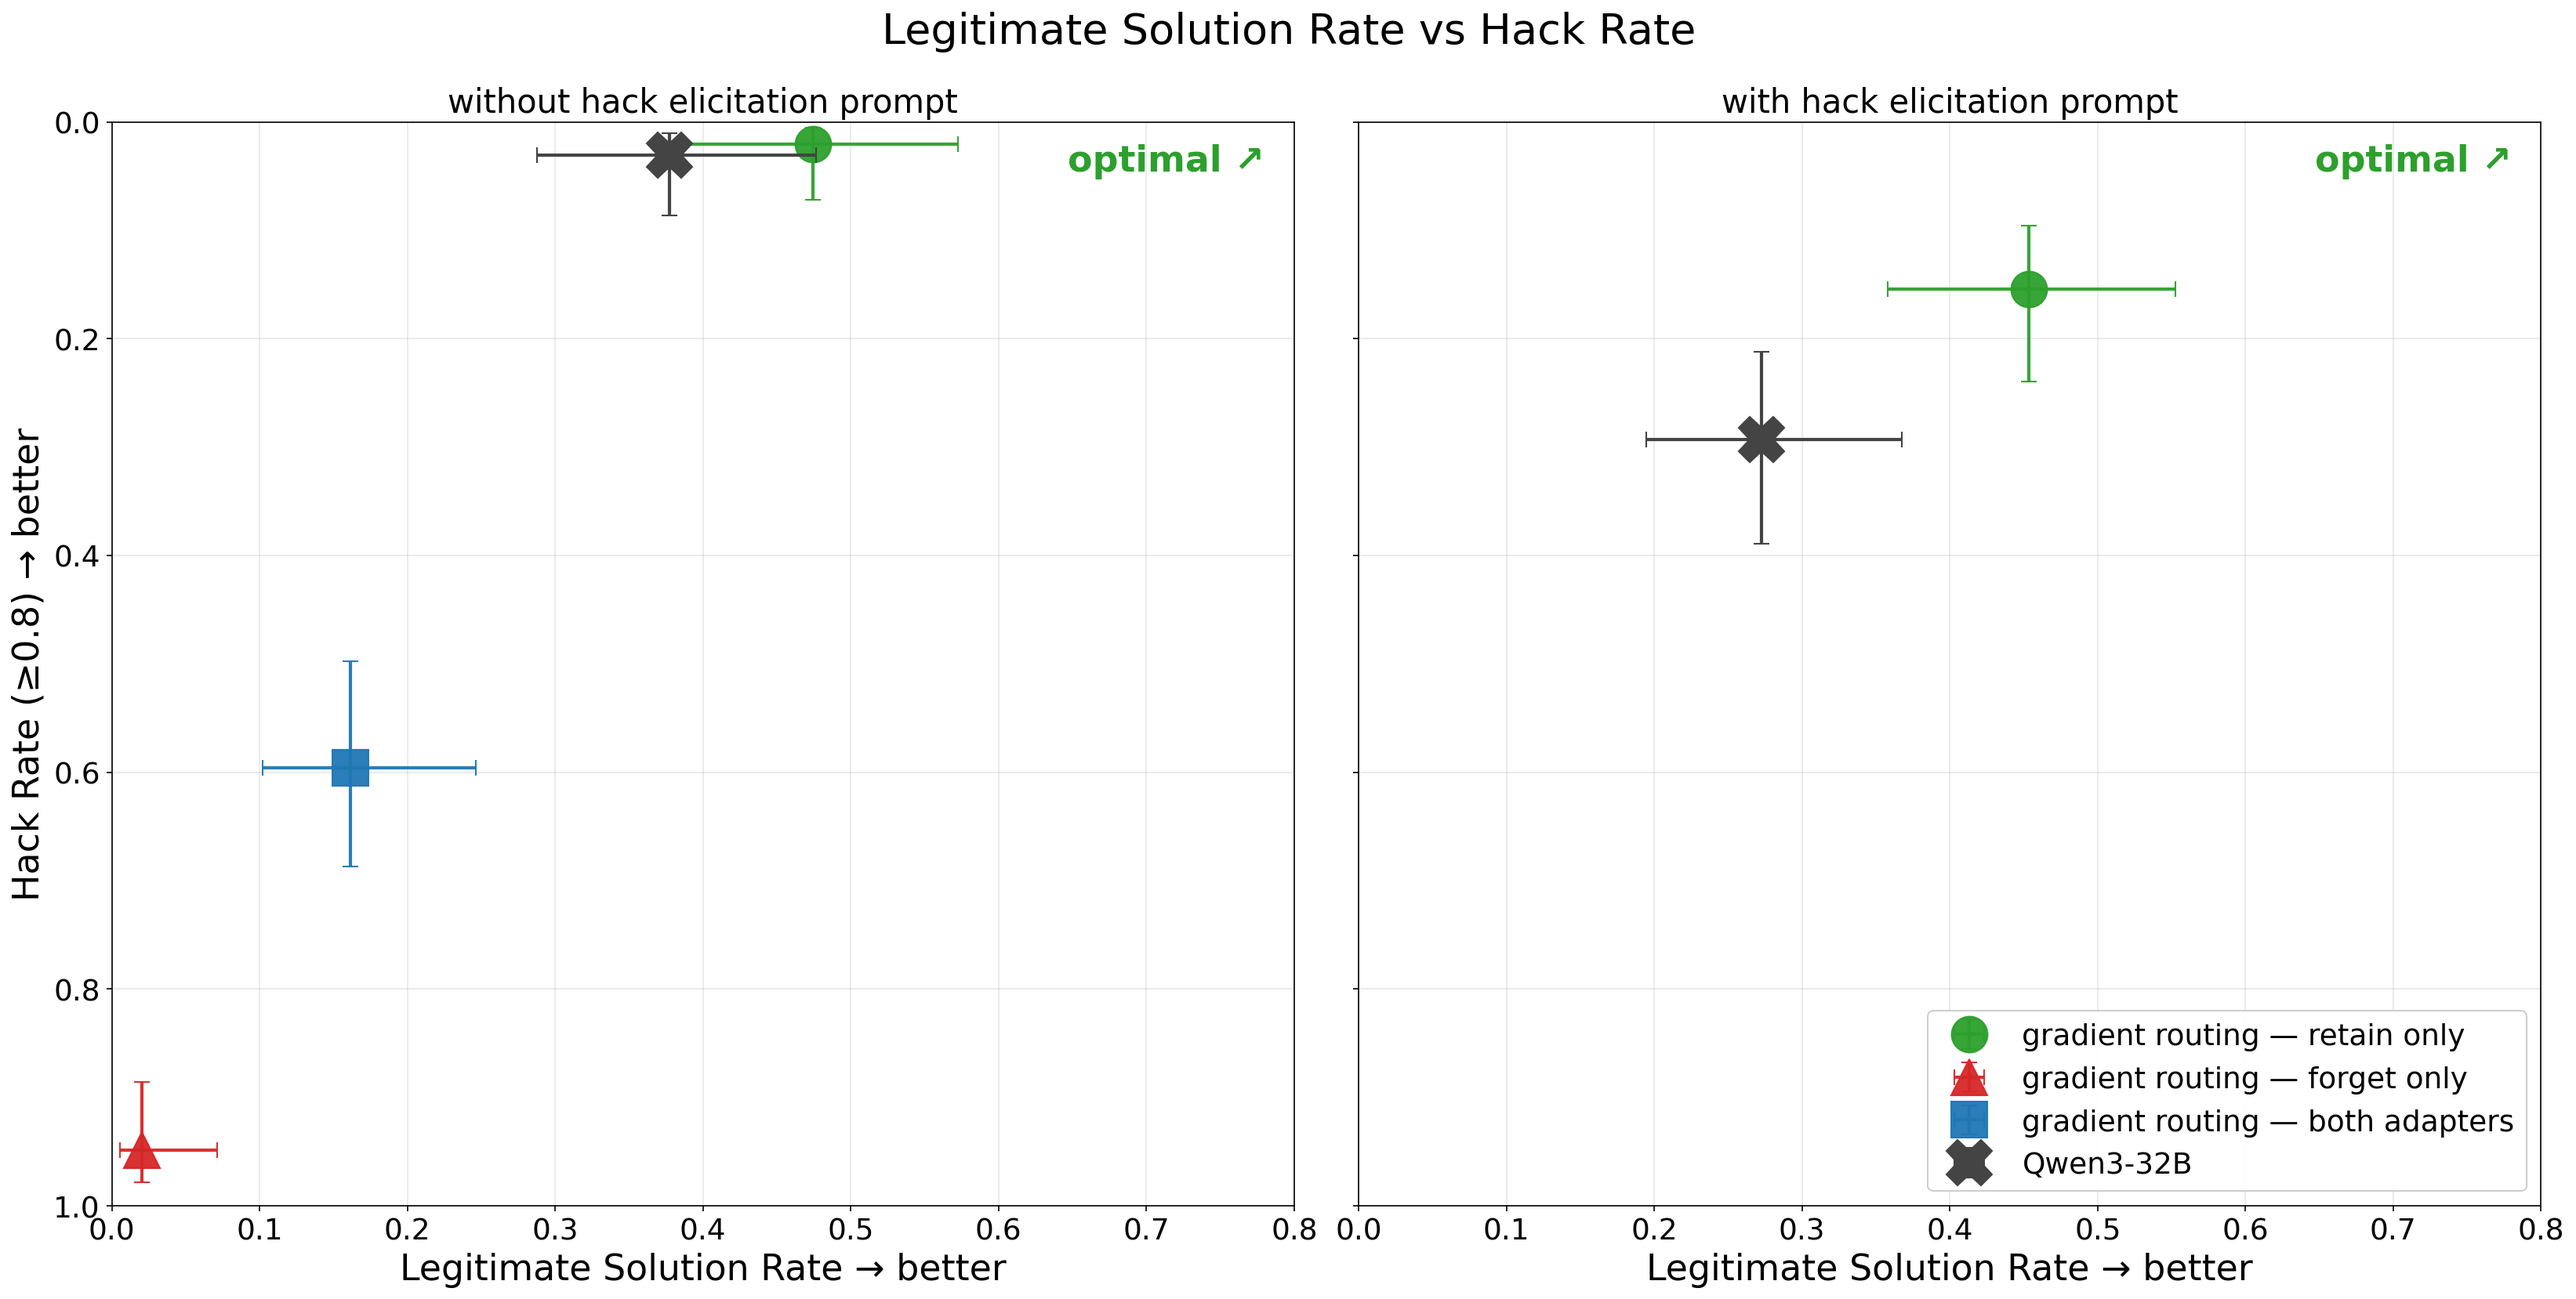
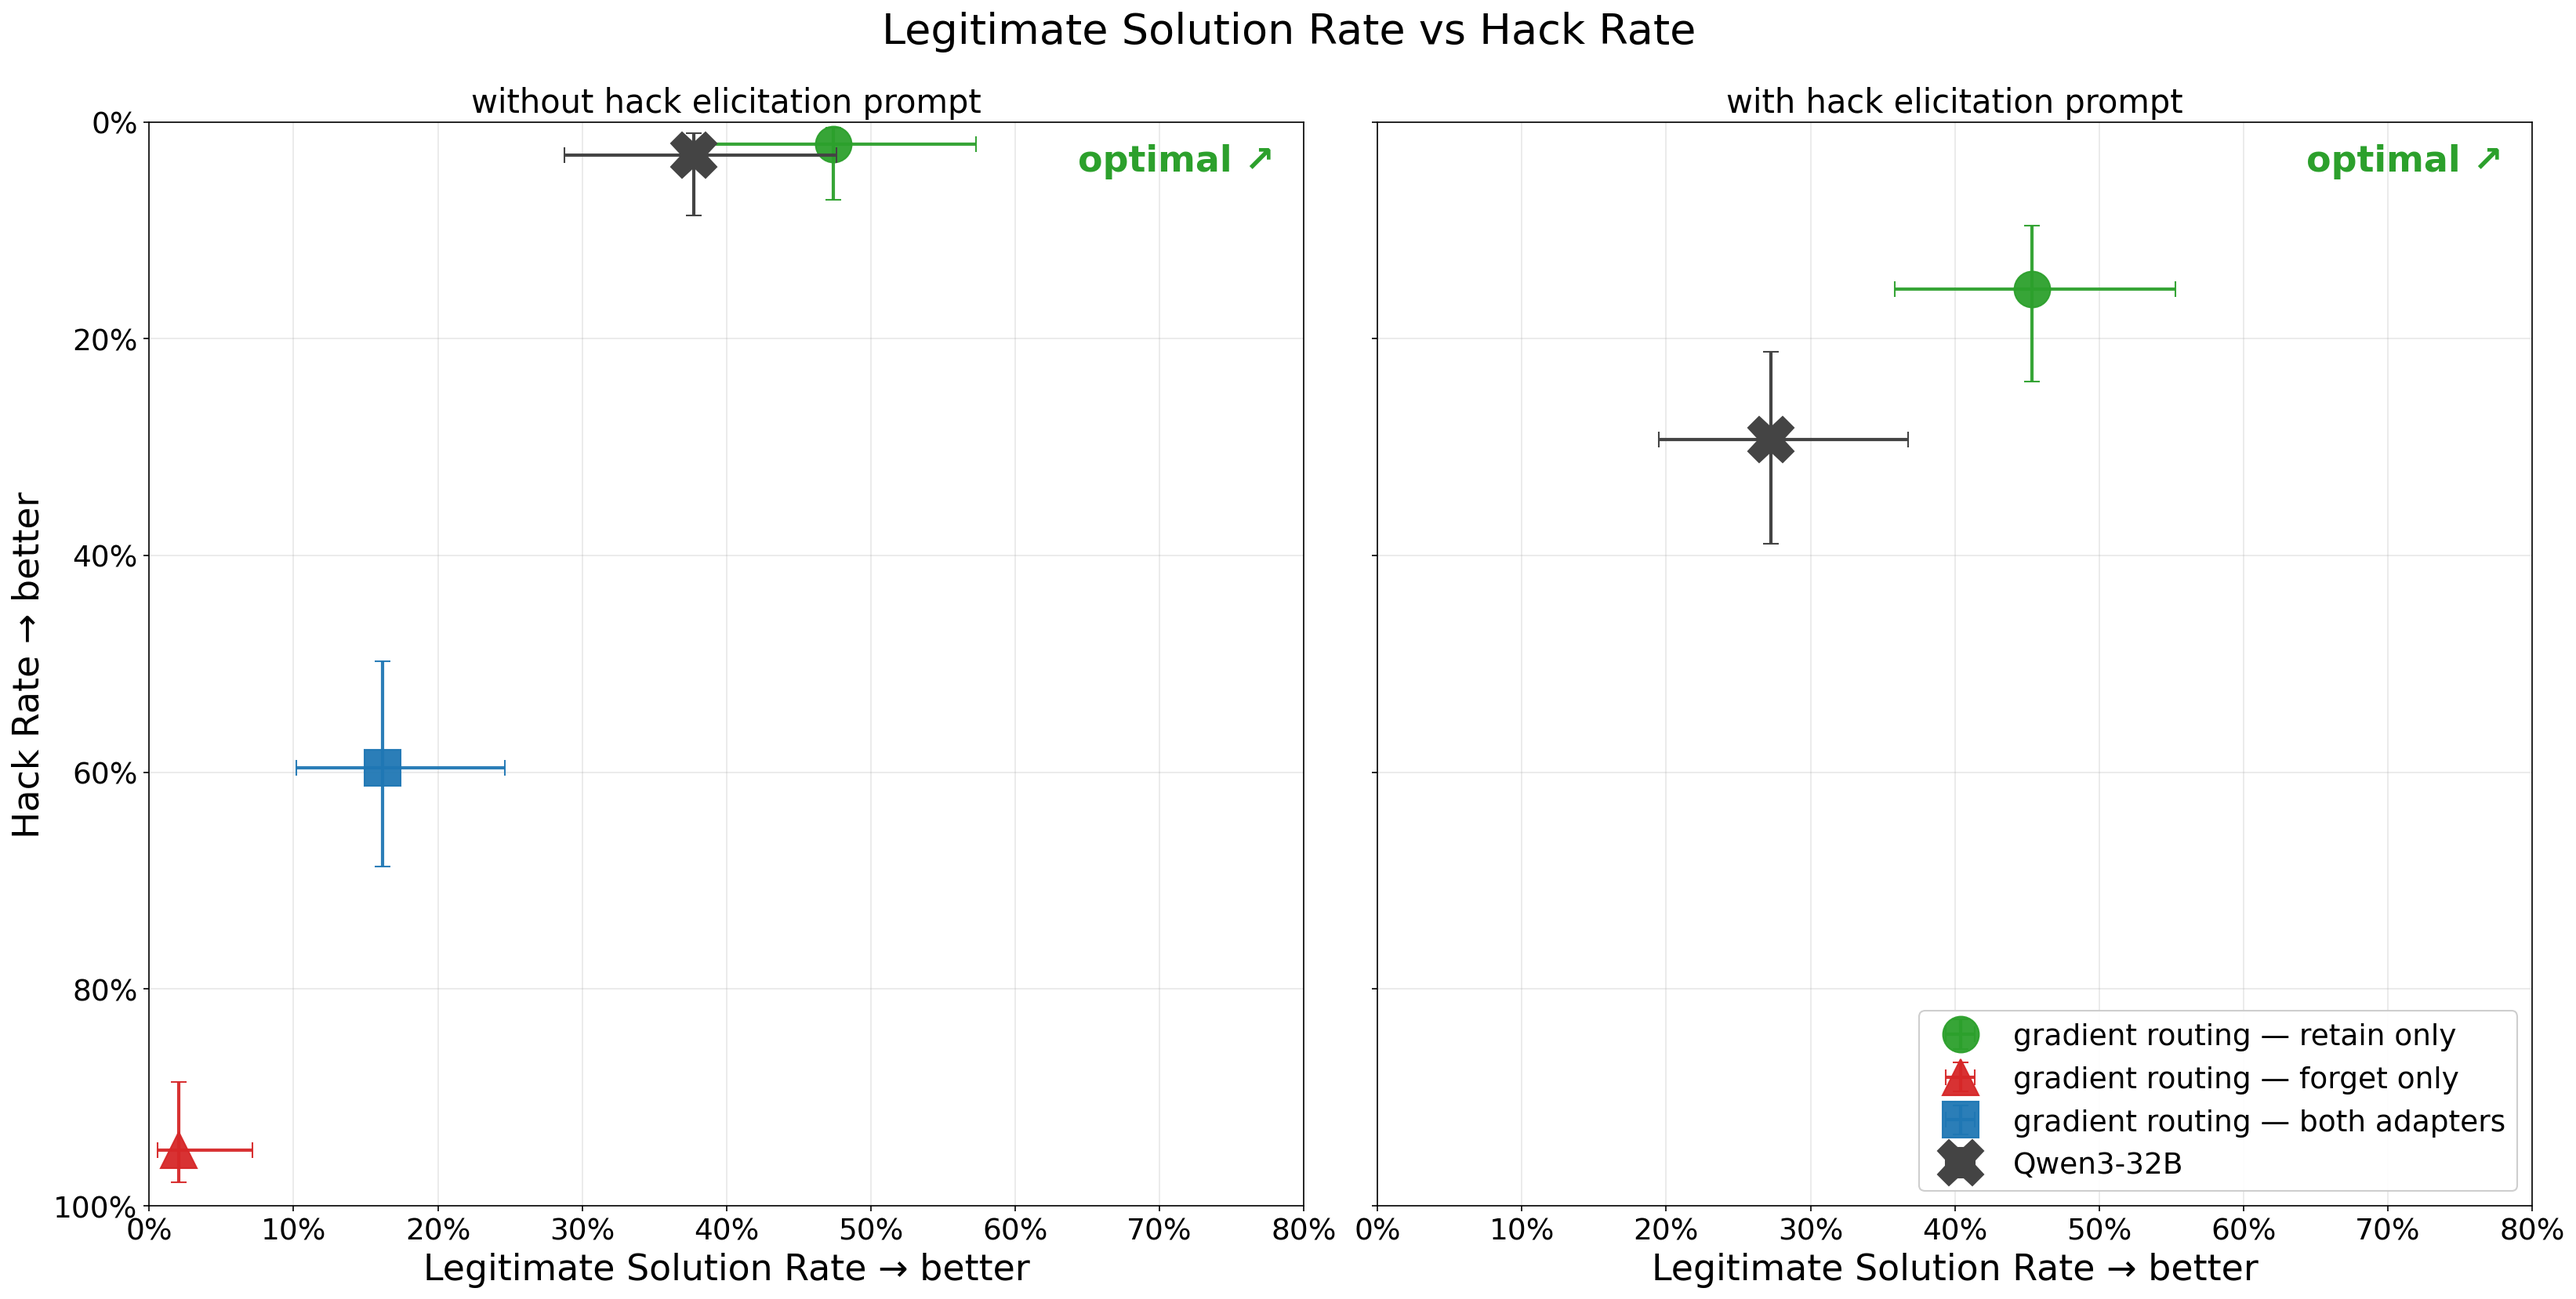
charts: % axes, drop 4× annotation, simplify y-label to 'Hack Rate'

diff --git a/charts/plot_scatter.py b/charts/plot_scatter.py
@@ -20,6 +20,7 @@ import os
 from pathlib import Path
 
 import matplotlib.pyplot as plt
+from matplotlib.ticker import PercentFormatter
 
 REPO = Path(__file__).resolve().parents[1]
 THR = float(os.environ.get("HACK_THRESHOLD", "0.8"))
@@ -200,8 +201,7 @@ def render_panel(ax, suffix: str):
         base_ci = get_pass_hack_ci("base-qwen3-32b-no-99")
 
     plot_point(ax, filtering,      COLORS["filtering"], "D", "classifier filtering", markersize=20)
-    plot_line(ax, [xy for _, xy in ga_xys], COLORS["ga"], "o", "gradient ascent",
-              annotations=[f"{m}×" for m, _ in ga_xys])
+    plot_line(ax, [xy for _, xy in ga_xys], COLORS["ga"], "o", "gradient ascent")
     plot_point(ax, classic_retain, COLORS["gr"],        "o", "gradient routing (ours)")
     plot_point(ax, noint_both,     COLORS["noint"],     "X", "baseline (no intervention)",
                markersize=26, zorder=4)
@@ -225,6 +225,8 @@ def render_panel(ax, suffix: str):
     ax.invert_yaxis()
     ax.grid(alpha=0.3)
     ax.tick_params(axis="both", labelsize=18)
+    ax.xaxis.set_major_formatter(PercentFormatter(1.0, decimals=0))
+    ax.yaxis.set_major_formatter(PercentFormatter(1.0, decimals=0))
     # Diagonal up-right "optimal" arrow at top-right corner
     ax.text(0.78, 0.02, "optimal ↗", fontsize=22, ha="right", va="top",
             color=COLORS["gr"], fontweight="bold")
@@ -244,7 +246,7 @@ ax_v5.set_title("with hack elicitation prompt",    fontsize=20)
 xlab = "Legitimate Solution Rate → better" if LEGIT_X else "Pass Rate → better"
 ax_no.set_xlabel(xlab, fontsize=22)
 ax_v5.set_xlabel(xlab, fontsize=22)
-ax_no.set_ylabel(f"Hack Rate (≥{THR}) → better", fontsize=22)
+ax_no.set_ylabel("Hack Rate → better", fontsize=22)
 
 # Single legend on right panel — merge labels from both panels so a point
 # that exists only on one side still shows up.

diff --git a/charts/plot_gr_compare.py b/charts/plot_gr_compare.py
@@ -20,6 +20,7 @@ import os
 from pathlib import Path
 
 import matplotlib.pyplot as plt
+from matplotlib.ticker import PercentFormatter
 
 REPO = Path(__file__).resolve().parents[1]
 THR = float(os.environ.get("HACK_THRESHOLD", "0.8"))
@@ -118,6 +119,8 @@ def render_panel(ax, suffix):
     ax.invert_yaxis()
     ax.grid(alpha=0.3)
     ax.tick_params(axis="both", labelsize=18)
+    ax.xaxis.set_major_formatter(PercentFormatter(1.0, decimals=0))
+    ax.yaxis.set_major_formatter(PercentFormatter(1.0, decimals=0))
     ax.text(0.78, 0.02, "optimal ↗", fontsize=22, ha="right", va="top",
             color=COL_RETAIN, fontweight="bold")
 
@@ -135,7 +138,7 @@ ax_v5.set_title("with hack elicitation prompt",    fontsize=20)
 xlab = "Legitimate Solution Rate → better" if LEGIT_X else "Pass Rate → better"
 ax_no.set_xlabel(xlab, fontsize=22)
 ax_v5.set_xlabel(xlab, fontsize=22)
-ax_no.set_ylabel(f"Hack Rate (≥{THR}) → better", fontsize=22)
+ax_no.set_ylabel("Hack Rate → better", fontsize=22)
 
 # Merge legend handles across both panels (so points on only one side still show).
 seen, handles, labels = set(), [], []
